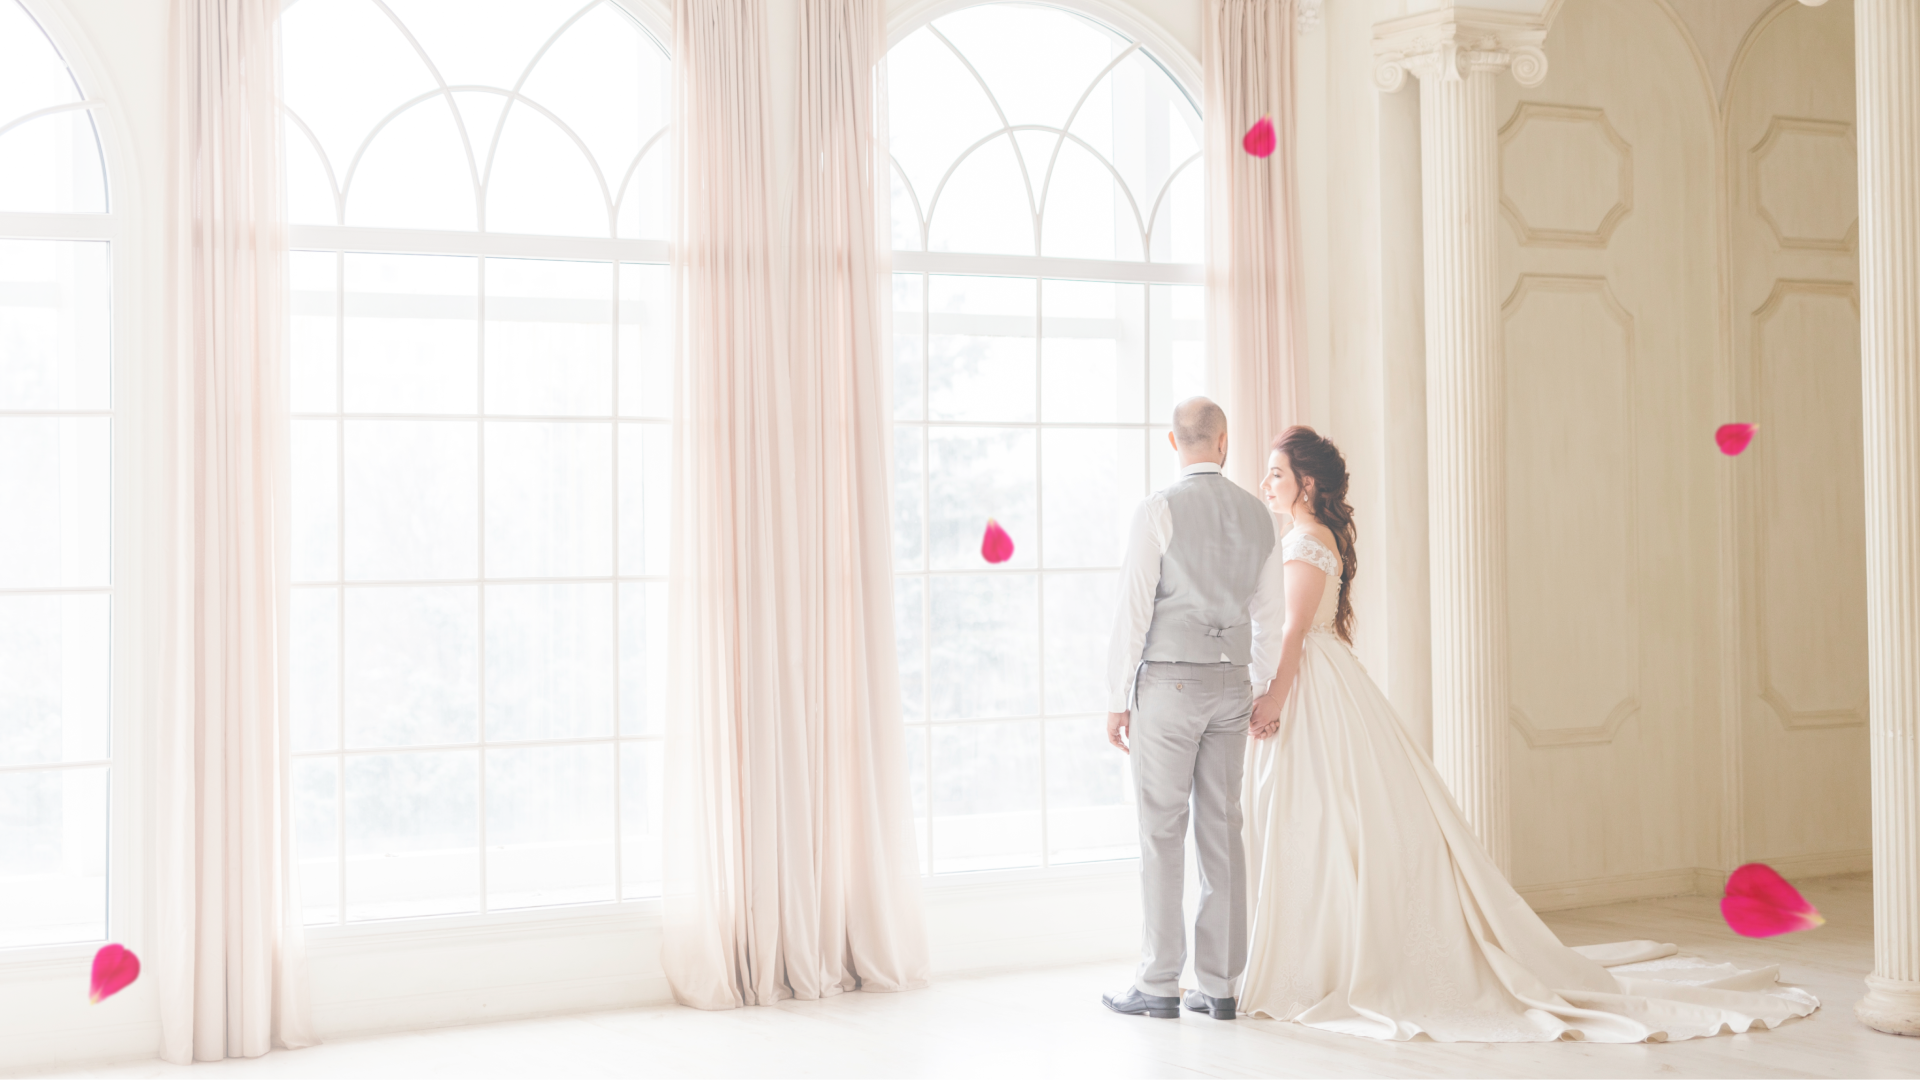
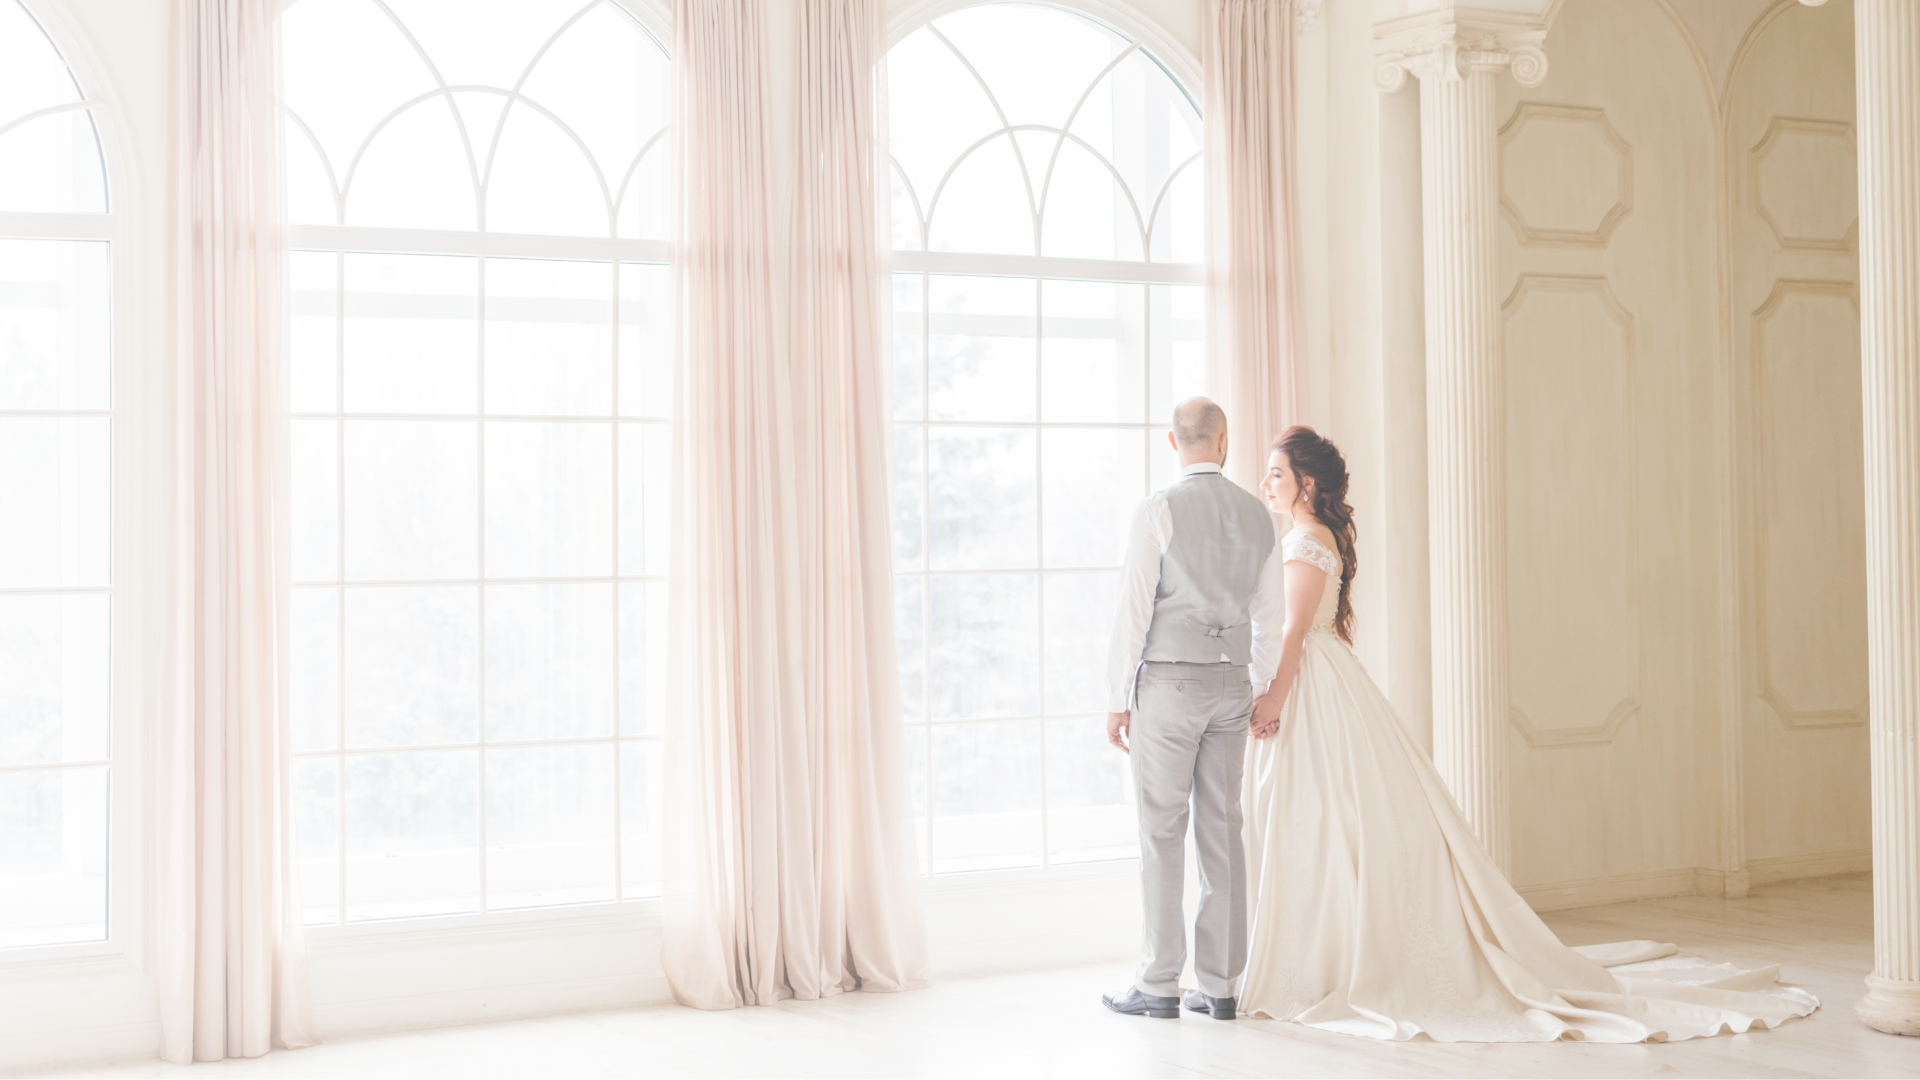
wip

diff --git a/src/components/about/about.tsx b/src/components/about/about.tsx
@@ -1,9 +1,16 @@
 import { aboutUrl } from "components/navigation/utils";
+import { Petal } from "components/shared/petal";
 import { useImagesContext } from "context/images-context/images-context";
 import { GatsbyImage } from "gatsby-plugin-image";
 import React from "react";
 import { CgInfinity } from "react-icons/cg";
 import { getImage } from "utils/image";
+import { renderPetals } from "utils/petal";
+
+const petals = [
+  "w-18 h-18 absolute top-[15%] -left-6 z-10 rotate-[135deg]",
+  "w-8 h-8 absolute top-[25%] right-[10%] z-10 rotate-[225deg]",
+];
 
 export const About = () => {
   const { about } = useImagesContext();
@@ -11,9 +18,9 @@ export const About = () => {
   return (
     <section
       id={aboutUrl}
-      className="py-10 lg:py-14 lg:pt-24 2xl:py-16 2xl:pt-32"
+      className="relative py-10 lg:py-14 lg:pt-24 2xl:py-16 2xl:pt-32"
     >
-      <div className="layout-container flex flex-col gap-8 lg:flex-row">
+      <div className="layout-container flex flex-col gap-8 lg:flex-row lg:gap-16 items-center justify-center">
         <header className="flex flex-col gap-2 max-w-4xl lg:w-1/2">
           <p className="uppercase flex gap-2 items-center text-base text-primary">
             <CgInfinity className="w-8 h-8" /> dowiedź się więcej
@@ -32,12 +39,18 @@ export const About = () => {
             pulvinar, molestie eros non, consectetur tortor.
           </p>
         </header>
-        <GatsbyImage
-          className="w-full max-w-96 m-auto lg:w-1/2 object-contain"
-          image={getImage(about)}
-          alt="O nas"
-        />
+        <div className="image-wrapper w-full relative lg:w-1/2">
+          <GatsbyImage
+            className="w-full"
+            image={getImage(about)}
+            alt="O nas"
+            objectFit="contain"
+            objectPosition="center"
+          />
+          <Petal className="w-16 h-16 absolute bottom-[-15%] left-[43%] z-10 rotate-[135deg]" />
+        </div>
       </div>
+      {renderPetals(petals)}
     </section>
   );
 };

diff --git a/src/components/pricing/pricing.tsx b/src/components/pricing/pricing.tsx
@@ -2,6 +2,7 @@ import { pricingUrl } from "components/navigation/utils";
 import { Link } from "gatsby";
 import React from "react";
 import { CgInfinity } from "react-icons/cg";
+import { renderPetals } from "utils/petal";
 
 const PRICING_ITEMS = [
   {
@@ -17,14 +18,19 @@ const PRICING_ITEMS = [
     price: "140 PLN / lekcja",
   },
   {
-    title: "Pokaz taneczny",
-    price: "1000 PLN",
+    title: "Zajęcia grupowe**",
+    price: "50 PLN / osoba",
   },
+];
+
+const petals = [
+  "w-18 h-18 absolute bottom-[15%] -right-8 z-10 rotate-[45deg]",
+  "w-8 h-8 absolute bottom-[15%] left-[10%] z-10 rotate-[119deg]",
 ];
 
 export const Pricing = () => {
   return (
-    <section id={pricingUrl} className="py-10 lg:py-14 2xl:py-16">
+    <section id={pricingUrl} className="relative py-10 lg:py-14 2xl:py-16">
       <div className="layout-container flex flex-col gap-8 justify-center">
         <header className="flex flex-col gap-2 max-w-4xl text-center m-auto">
           <p className="uppercase flex gap-2 items-center text-base text-primary justify-center">
@@ -37,7 +43,7 @@ export const Pricing = () => {
           </p>
         </header>
         <div className="max-w-3xl w-full m-auto">
-          <table className="bg-accent rounded-lg m-auto w-full">
+          <table className="bg-accent rounded-xl m-auto w-full">
             <tbody>
               {PRICING_ITEMS.map((item) => (
                 <tr key={item.title}>
@@ -58,8 +64,13 @@ export const Pricing = () => {
               tutaj
             </Link>
           </p>
+          <p className="text-xs mt-1">
+            ** zajęcia grupowe odbywają się w grupach od 3 do 6 osób w przypadku
+            uformowania grupy
+          </p>
         </div>
       </div>
+      {renderPetals(petals)}
     </section>
   );
 };

diff --git a/src/components/hero/hero.tsx b/src/components/hero/hero.tsx
@@ -5,6 +5,17 @@ import { getImage } from "utils/image";
 import { CgInfinity } from "react-icons/cg";
 import { Button } from "components/shared/button";
 import { homeUrl } from "components/navigation/utils";
+import { Petal } from "components/shared/petal";
+import { renderPetals } from "utils/petal";
+
+const petals = [
+  "w-12 h-12 absolute bottom-[5%] right-[25%] z-10 rotate-[-55deg]",
+  "w-14 h-14 absolute top-[20%] left-[5%] z-10 rotate-[55deg]",
+  "hidden md:block w-8 h-8 absolute top-[25%] right-[5%] z-10 rotate-[35deg]",
+  "hidden lg:block w-8 h-8 absolute bottom-[15%] left-[25%] z-10 rotate-[39deg]",
+  "hidden lg:block w-8 h-8 absolute top-[15%] left-[45%] z-10 rotate-[195deg]",
+  "hidden xl:block w-18 h-18 absolute bottom-[20%] right-[10%] z-10 rotate-[195deg]",
+];
 
 export const Hero = () => {
   const { hero } = useImagesContext();
@@ -29,10 +40,11 @@ export const Hero = () => {
         </header>
       </div>
       <GatsbyImage
-        class="min-h-screen max-h-screen w-full absolute top-0 left-0 -z-10 [&>img]:object-bottom"
+        className="min-h-screen max-h-screen w-full absolute top-0 left-0 -z-10 [&>img]:object-bottom"
         image={getImage(hero)}
         alt="Para w sali tanecznej patrząca w okno"
       />
+      {renderPetals(petals)}
     </section>
   );
 };

diff --git a/src/components/footer/footer.tsx b/src/components/footer/footer.tsx
@@ -16,7 +16,7 @@ export const Footer = () => {
   return (
     <section className="w-full relative items-center justify-center flex py-8 lg:py-10">
       <div className="layout-container items-center">
-        <img className="h-8 m-auto" src={logo} alt="Logo" />
+        <img className="h-14 m-auto" src={logo} alt="Logo" />
         <div className="flex flex-col gap-6 justify-between my-6 lg:flex-row lg:my-10">
           <div className="text-sm flex flex-col gap-1 lg:gap-2">
             <h6 className="text-base text-gray-900">Newsletter</h6>
@@ -38,8 +38,8 @@ export const Footer = () => {
             <div className="flex flex-col gap-2">
               <div className="flex items-center gap-2">
                 <TfiEmail className="w-4 h-4" />
-                <a href="mailto:hello@eladancestudio.pl">
-                  hello@eladancestudio.pl
+                <a href="mailto:eladancestudio@gmail.com">
+                  eladancestudio@gmail.com
                 </a>
               </div>
               <div className="flex items-center gap-2">

diff --git a/src/components/steps/steps.tsx b/src/components/steps/steps.tsx
@@ -5,6 +5,7 @@ import { GatsbyImage } from "gatsby-plugin-image";
 import React from "react";
 import { CgInfinity } from "react-icons/cg";
 import { getImage } from "utils/image";
+import { renderPetals } from "utils/petal";
 
 const STEP_ITEMS = [
   "Wspólny wybór choreografi",
@@ -14,11 +15,13 @@ const STEP_ITEMS = [
   "Nauka tańca w przyjemej atmosferze 😉",
 ];
 
+const petals = ["w-18 h-18 absolute top-[15%] -right-6 z-10 rotate-[-135deg]"];
+
 export const Steps = () => {
   const { petal } = useImagesContext();
 
   return (
-    <section id={stepsUrl} className="py-10 lg:py-14 2xl:py-16">
+    <section id={stepsUrl} className="py-10 lg:py-14 2xl:py-16 relative">
       <div className="layout-container flex flex-col-reverse gap-8 lg:flex-row lg:items-center">
         <div className="lg:w-1/2">
           <ul className="flex flex-col gap-2">
@@ -59,6 +62,7 @@ export const Steps = () => {
           </Button>
         </header>
       </div>
+      {renderPetals(petals)}
     </section>
   );
 };

diff --git a/src/components/calendar/calendar.tsx b/src/components/calendar/calendar.tsx
@@ -1,0 +1,31 @@
+import React from "react";
+
+import { useImagesContext } from "context/images-context/images-context";
+
+import { CgInfinity } from "react-icons/cg";
+
+import { Script } from "gatsby";
+
+export const Calendar = () => {
+  const { calendar } = useImagesContext();
+
+  return (
+    <section className="w-full relative items-center justify-center flex py-24 my-4 lg:my-8">
+      <header className="flex flex-col gap-2 max-w-md">
+        <p className="uppercase flex gap-2 items-center text-base text-primary">
+          <CgInfinity className="w-8 h-8" /> porozmawiajmy
+        </p>
+        <h1 className="font-display text-5xl text-gray-900">Konsultacja</h1>
+      </header>
+      <div
+        className="calendly-inline-widget w-full h-[700px]"
+        data-url="https://calendly.com/eladancestudio/konsultacja"
+      />
+      <Script
+        type="text/javascript"
+        src="https://assets.calendly.com/assets/external/widget.js"
+        async
+      />
+    </section>
+  );
+};

diff --git a/src/components/features/features.tsx b/src/components/features/features.tsx
@@ -4,6 +4,7 @@ import { Feature } from "components/features/feature";
 import { FaCar } from "react-icons/fa";
 import { ImUserTie } from "react-icons/im";
 import { TbBulb } from "react-icons/tb";
+import { renderPetals } from "utils/petal";
 
 const FEATURE_ITEMS = [
   {
@@ -32,9 +33,14 @@ const FEATURE_ITEMS = [
   },
 ];
 
+const petals = [
+  "w-18 h-18 absolute top-[15%] left-[5%] z-10 rotate-[235deg]",
+  "w-8 h-8 absolute top-[15%] right-[10%] z-10 rotate-[-45deg]",
+];
+
 export const Features = () => {
   return (
-    <section className="py-10 lg:py-14 2xl:py-16">
+    <section className="relative py-10 lg:py-14 2xl:py-16">
       <div className="layout-container flex flex-col gap-8 lg:flex-row 2xl:gap-12 w-full">
         {FEATURE_ITEMS.map((item) => (
           <Feature key={item.title} icon={item.icon} title={item.title}>
@@ -42,6 +48,7 @@ export const Features = () => {
           </Feature>
         ))}
       </div>
+      {renderPetals(petals)}
     </section>
   );
 };

diff --git a/src/components/shared/petal/petal.tsx b/src/components/shared/petal/petal.tsx
@@ -1,0 +1,22 @@
+import { useImagesContext } from "context/images-context/images-context";
+import { GatsbyImage } from "gatsby-plugin-image";
+import { getImage } from "utils/image";
+import React from "react";
+import { twMerge } from "tailwind-merge";
+
+interface PetalProps {
+  className?: string;
+}
+
+export const Petal = ({ className }: PetalProps) => {
+  const { petal } = useImagesContext();
+
+  return (
+    <GatsbyImage
+      className={twMerge(className, "opacity-80")}
+      image={getImage(petal)}
+      alt="Płatek róży"
+      objectFit="contain"
+    />
+  );
+};

diff --git a/src/pages/index.tsx b/src/pages/index.tsx
@@ -6,6 +6,7 @@ import { Services } from "components/services";
 import { Features } from "components/features";
 import { Pricing } from "components/pricing";
 import { SocialMedia } from "components/social-media";
+import { Calendar } from "components/calendar";
 import { FAQ } from "components/faq";
 import { Contact } from "components/contact";
 import { Steps } from "components/steps";
@@ -20,6 +21,7 @@ const IndexPage: React.FC<PageProps> = () => {
       <Features />
       <Pricing />
       <SocialMedia />
+      <Calendar />
       <FAQ />
       <Contact />
     </>

diff --git a/src/components/contact/contact.tsx b/src/components/contact/contact.tsx
@@ -38,8 +38,8 @@ export const Contact = () => {
           <div className="flex flex-col gap-1 my-4">
             <div className="flex items-center gap-2">
               <TfiEmail className="w-4 h-4" />
-              <a href="mailto:hello@eladancestudio.pl">
-                hello@eladancestudio.pl
+              <a href="mailto:eladancestudio@gmail.com">
+                eladancestudio@gmail.com
               </a>
             </div>
             <div className="flex items-center gap-2">

diff --git a/tailwind.config.js b/tailwind.config.js
@@ -11,11 +11,14 @@ module.exports = {
         body: ["Montserrat", "sans-serif"],
       },
       colors: {
-        primary: "#D999A3",
-        accent: "#FFDEE3",
+        primary: "#D899A2",
+        accent: "#FEE5EB",
       },
       maxWidth: {
         320: "80rem",
+      },
+      width: {
+        18: "4.5rem",
       },
     },
   },

diff --git a/src/components/navigation/navigation.tsx b/src/components/navigation/navigation.tsx
@@ -36,7 +36,7 @@ export const Navigation = () => {
       >
         <Link to="/">
           <img
-            className={twMerge("h-6 lg:h-10", logoClassName)}
+            className={twMerge("h-6 lg:h-16", logoClassName)}
             src={logo}
             alt="Logo"
           />
